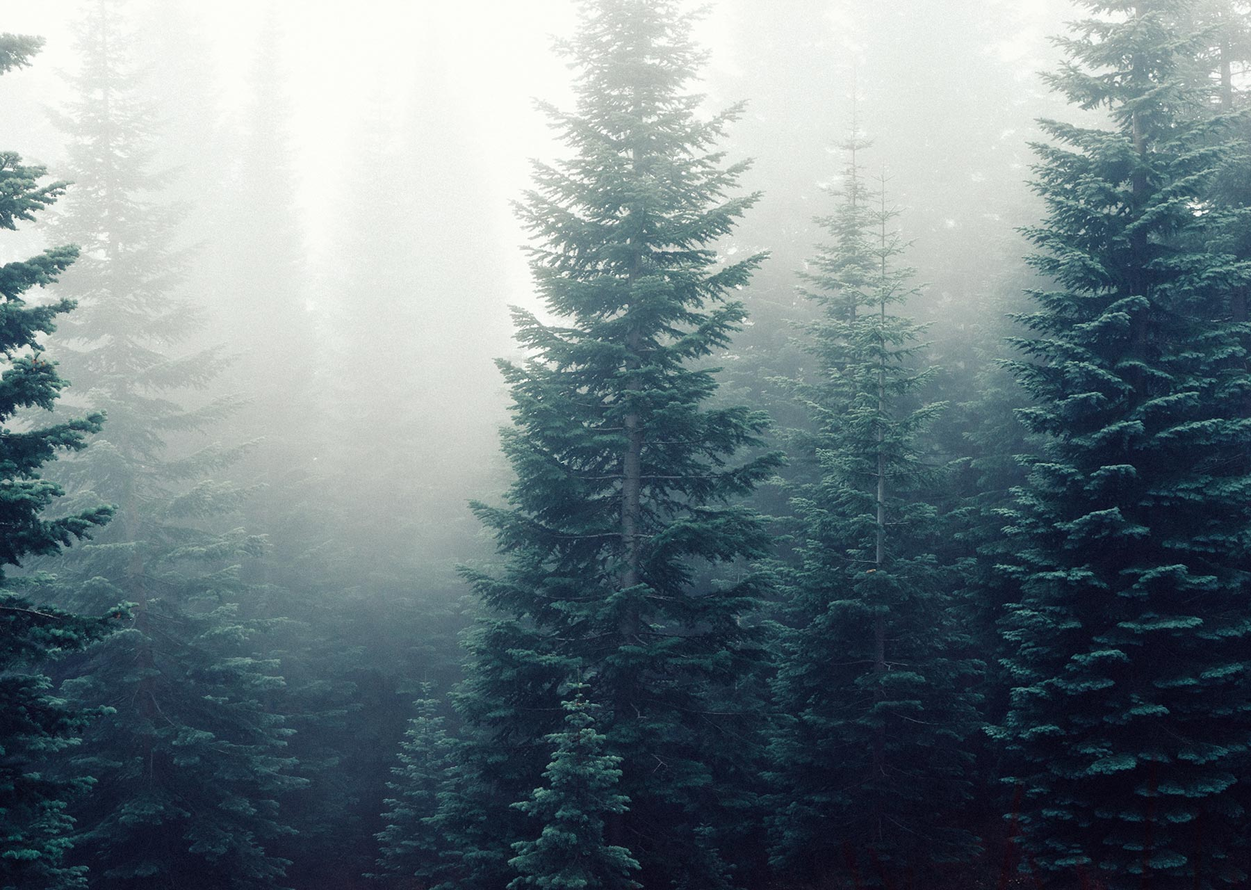
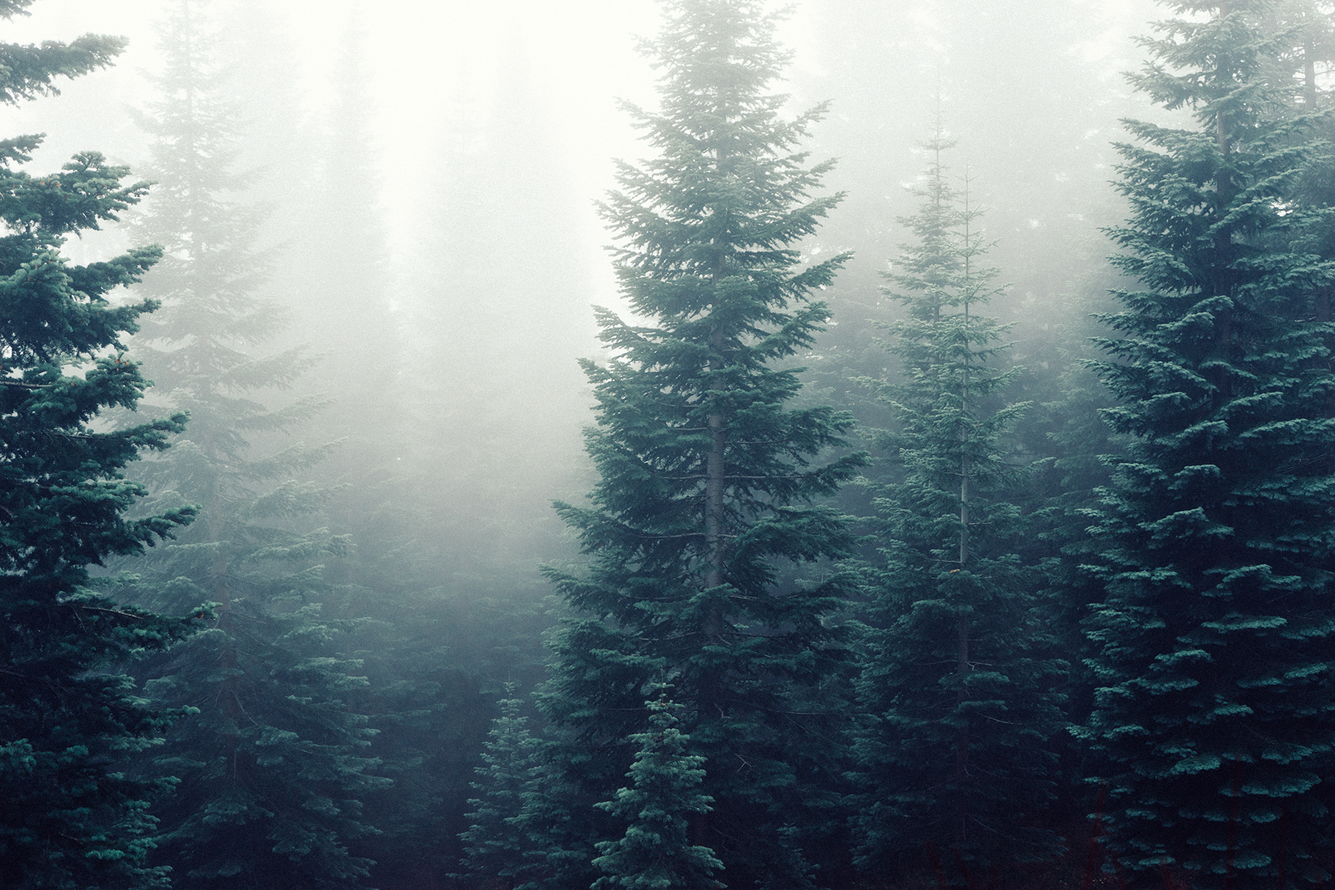
ver. 1.95.3

diff --git a/index.html b/index.html
@@ -16,7 +16,6 @@
     </head>
 
     <body>
-        <!-- Photo by Danil Korzhanov -->
         <div class="bg-filter"></div>
         <div class="body-filter"></div>
         <div class="main-wrap">
@@ -30,16 +29,38 @@
             </div>
 
             <div class="info-wrap-small">
-                <div class="hint-label"><small>Can not access your project ?</small></div>
+                <div class="hint-label"><small>Cannot access your project?</small></div>
                 <div class="hint-wrap">
                     Whether you cannot get access to your project.<br/>
                     Or it seems to be removed / archieved.
                     Should you have any other kind of questions.
-                    And to<br/>request for a specific information.<br/><br/>
-                    Just write to the mailbox below.<br/>
-                    &darr;
+                    And<br/>to request for a specific information.<br/><br/>
+                    Just write to the mailbox below.
                 </div>
             </div>
         </div>
     </body>
+
+    <script>
+        var hintlab = document.querySelector('.hint-label'),
+            hint = document.querySelector('.hint-wrap'),
+            infos = document.querySelectorAll('.info-wrap');
+
+        hintlab.addEventListener('mouseover', function () {
+            hint.classList.add('m');
+            infos.forEach(function(item){
+                item.classList.remove('m');
+                item.classList.add('o');
+            });
+        });
+
+        hintlab.addEventListener('mouseleave', function () {
+            hint.classList.remove('m');
+            infos.forEach(function(item){
+                item.classList.remove('o');
+                item.classList.add('m');
+            });
+        });
+    </script>
+
 </html>

diff --git a/style.css b/style.css
@@ -22,7 +22,7 @@ b {
     font-size: 120%;
 }
 .bg-filter {
-    background: url(forestfog.jpg) bottom;
+    background: url(forfog.jpg) bottom;
     background-color: #333;
     /*filter: brightness(1.5);*/
     background-size: cover;
@@ -72,6 +72,13 @@ b {
 .mail-wrap {
     margin: 16vh auto 0;
 }
+.info-wrap.o {
+    opacity: 0;
+}
+.info-wrap.m {
+    -webkit-transition: .3s;
+    opacity: 1;
+}
 .info-wrap-small {
     margin-top: 20vh;
 }
@@ -81,15 +88,16 @@ b {
     position: absolute;
     border-radius: 10px;
     text-shadow: none;
-    font-weight: 400;
-    background: #fff;
-    font-size: 16px;
+    font-weight: 200;
+    background: rgba(50,50,50,.2);
+    border: 1px solid #fff;
+    font-size: 17px;
     padding: 20px;
     width: 360px;
-    color: #555;
+    color: #fff;
     z-index: -1;
     opacity: 0;
-    top: 37.5vh;
+    top: 38.5vh;
 }
 .hint-wrap span {
     text-align: center;
@@ -102,7 +110,7 @@ b {
     cursor: pointer;
     margin: 0 auto;
 }
-.hint-label:hover + .hint-wrap {
+.hint-wrap.m {
     -webkit-transition: .3s;
     opacity: 1;
     z-index: 1;
